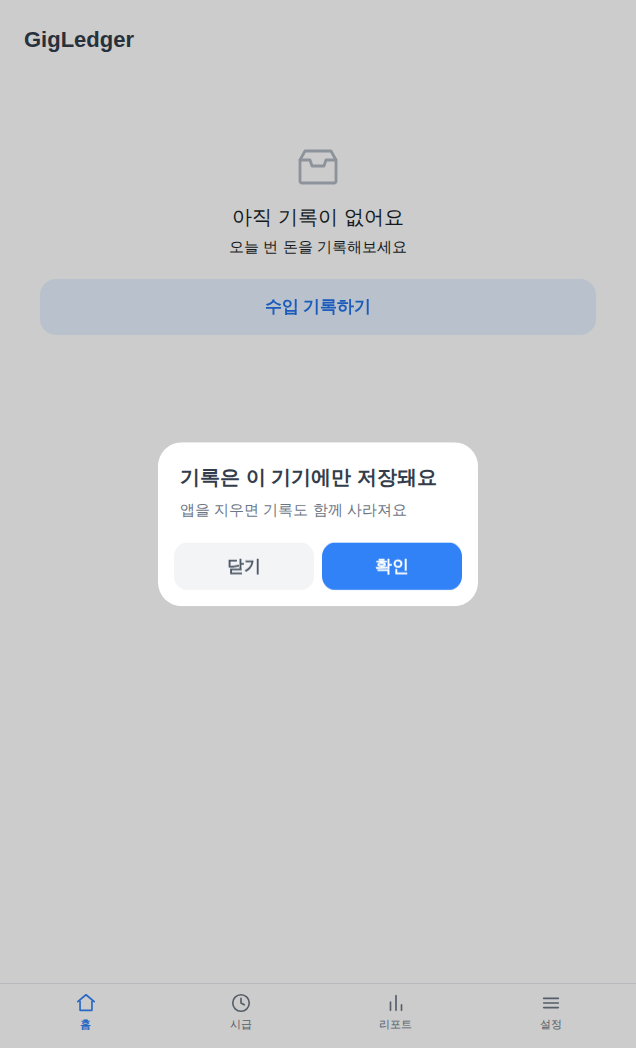
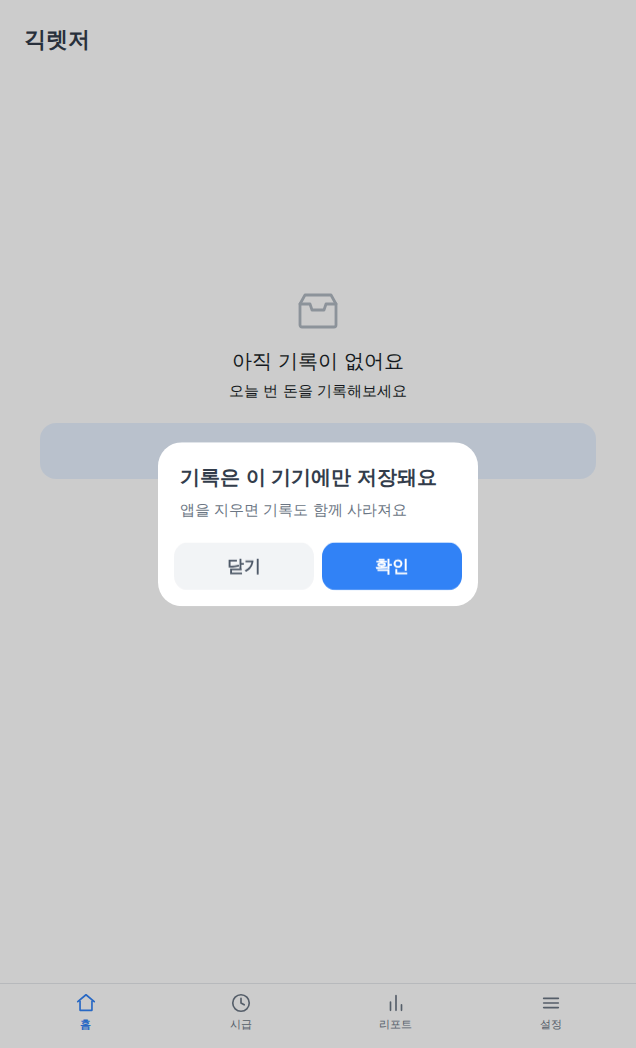
fix: visual UI improvements (round 2)

Changed region(s): [[0.3585, 0.2748, 0.6274, 0.3969], [0.3585, 0.1221, 0.6274, 0.2443], [0.0299, 0.0305, 0.2091, 0.0611]]

diff --git a/src/pages/Entry.tsx b/src/pages/Entry.tsx
@@ -72,23 +72,6 @@ function SelectChip({
   );
 }
 
-/**
- * 필드 위 상시 라벨.
- * TDS TextField의 `label`은 플로팅이라 값이 비고 포커스가 없으면 위로 떠 **사라진다**
- * (실측: 빈 폼에서 수입/경비/시간이 전부 placeholder만 남아 무슨 칸인지 알 수 없었다).
- * 그래서 라벨은 바깥에 상시 노출하고, TextField에는 aria-label로 접근성 이름만 준다.
- */
-function FieldLabel({ children }: { children: ReactNode }) {
-  return (
-    <>
-      <Paragraph.Text typography="st13" color="var(--adaptiveGrey600)">
-        {children}
-      </Paragraph.Text>
-      <Spacing size={8} />
-    </>
-  );
-}
-
 /** 숫자 필드는 문자열로 들고 있다가 제출 시점에만 숫자로 바꾼다(입력 중 "0" 강제 방지). */
 function toNumber(raw: string): number {
   const parsed = parseKrwAmount(raw);
@@ -244,11 +227,11 @@ export default function Entry() {
           handleSubmit();
         }}
       >
-        <FieldLabel>일자</FieldLabel>
         <TextField
           variant="box"
           type="date"
-          aria-label="일자"
+          label="일자"
+          labelOption="sustain"
           placeholder="2026-08-31"
           value={draft.date}
           max={toDateKey(new Date())}
@@ -257,7 +240,7 @@ export default function Entry() {
 
         <Spacing size={20} />
 
-        <Paragraph.Text typography="st13" color="var(--adaptiveGrey600)">
+        <Paragraph.Text typography="st13" color="var(--adaptiveGrey700)">
           어디서 번 수입인가요
         </Paragraph.Text>
         <Spacing size={8} />
@@ -284,10 +267,10 @@ export default function Entry() {
 
         <Spacing size={20} />
 
-        <FieldLabel>수입</FieldLabel>
         <TextField
           variant="box"
-          aria-label="수입"
+          label="수입"
+          labelOption="sustain"
           placeholder="128,000"
           suffix="원"
           inputMode="numeric"
@@ -300,10 +283,10 @@ export default function Entry() {
 
         <Spacing size={16} />
 
-        <FieldLabel>경비</FieldLabel>
         <TextField
           variant="box"
-          aria-label="경비"
+          label="경비"
+          labelOption="sustain"
           placeholder="18,000"
           suffix="원"
           inputMode="numeric"
@@ -316,10 +299,10 @@ export default function Entry() {
 
         <Spacing size={16} />
 
-        <FieldLabel>일한 시간</FieldLabel>
         <TextField
           variant="box"
-          aria-label="일한 시간"
+          label="일한 시간"
+          labelOption="sustain"
           placeholder="330"
           suffix="분"
           inputMode="numeric"
@@ -334,10 +317,10 @@ export default function Entry() {
 
         <Spacing size={16} />
 
-        <FieldLabel>메모</FieldLabel>
         <TextField
           variant="box"
-          aria-label="메모"
+          label="메모"
+          labelOption="sustain"
           placeholder="피크타임"
           enterKeyHint="done"
           maxLength={MAX_MEMO}

diff --git a/src/pages/Share.tsx b/src/pages/Share.tsx
@@ -55,7 +55,7 @@ export default function Share() {
     colorToken: row.colorToken,
   }));
 
-  const summaryText = `${monthLabel(month)} 순수입 ${formatKRW(report.netAmount)} · 실질 시급 ${wageText} (GigLedger)`;
+  const summaryText = `${monthLabel(month)} 순수입 ${formatKRW(report.netAmount)} · 실질 시급 ${wageText} (긱렛저)`;
 
   const handleCopy = async () => {
     try {
@@ -93,7 +93,7 @@ export default function Share() {
       ctx.fillText(`실질 시급 ${wageText}`, 96, 500);
       ctx.fillText(`${streak.current}일 연속 기록`, 96, 580);
       ctx.font = "400 44px sans-serif";
-      ctx.fillText("GigLedger", 96, CARD_HEIGHT - 96);
+      ctx.fillText("긱렛저", 96, CARD_HEIGHT - 96);
 
       const dataUrl = canvas.toDataURL("image/png");
       const link = document.createElement("a");
@@ -147,7 +147,7 @@ export default function Share() {
       <Button variant="fill" display="block" size="large" onClick={handleCopy}>
         요약 복사
       </Button>
-      <Spacing size={8} />
+      <Spacing size={12} />
       {/* TDS Button에는 loading prop이 없다 — 중복 탭은 disabled + 라벨 전환으로 막는다. */}
       <Button
         variant="weak"
@@ -158,7 +158,7 @@ export default function Share() {
       >
         {saving ? "이미지 만드는 중" : "이미지 저장"}
       </Button>
-      <Spacing size={8} />
+      <Spacing size={12} />
       <Button
         variant="weak"
         display="block"

diff --git a/src/__tests__/__helpers__/mocks.ts b/src/__tests__/__helpers__/mocks.ts
@@ -148,14 +148,17 @@ export function mockTds() {
       React.createElement("button", { onClick }, children),
 
     TextField: React.forwardRef(
-      ({ label, help, hasError, variant, ...props }: any, ref: any) =>
-        React.createElement(
+      ({ label, labelOption, help, hasError, variant, ...props }: any, ref: any) => {
+        // 벤더 TextField는 label을 input에 연결한다 — 목도 같은 모양(label이 있을 때만 id/htmlFor).
+        const id = label ? (props.id ?? `tf-${String(label)}`) : props.id;
+        return React.createElement(
           "div",
           null,
-          React.createElement("label", null, label),
-          React.createElement("input", { ref, "data-variant": variant, ...props }),
+          label && React.createElement("label", { htmlFor: id }, label),
+          React.createElement("input", { ref, id, "data-variant": variant, ...props }),
           hasError && help && React.createElement("span", { role: "alert" }, help),
-        ),
+        );
+      },
     ),
 
     // title은 그대로 렌더한다 — 여기서 <h1>로 한 번 더 감싸면 Top.TitleParagraph의 <h1>과

diff --git a/src/pages/Platforms.tsx b/src/pages/Platforms.tsx
@@ -176,7 +176,7 @@ export default function Platforms() {
         <Paragraph.Text typography="st13" color="var(--adaptiveGrey600)">
           {platforms.length} / {MAX_PLATFORMS}개 등록됨
         </Paragraph.Text>
-        <Button variant="weak" size="small" onClick={openAdd}>
+        <Button variant="weak" size="medium" onClick={openAdd}>
           플랫폼 추가
         </Button>
       </div>

diff --git a/src/pages/Settings.tsx b/src/pages/Settings.tsx
@@ -84,6 +84,7 @@ export default function Settings() {
           data-testid="goal-input"
           variant="box"
           label="월 목표 금액"
+          labelOption="sustain"
           placeholder="예: 3,000,000원"
           inputMode="numeric"
           pattern="[0-9]*"
